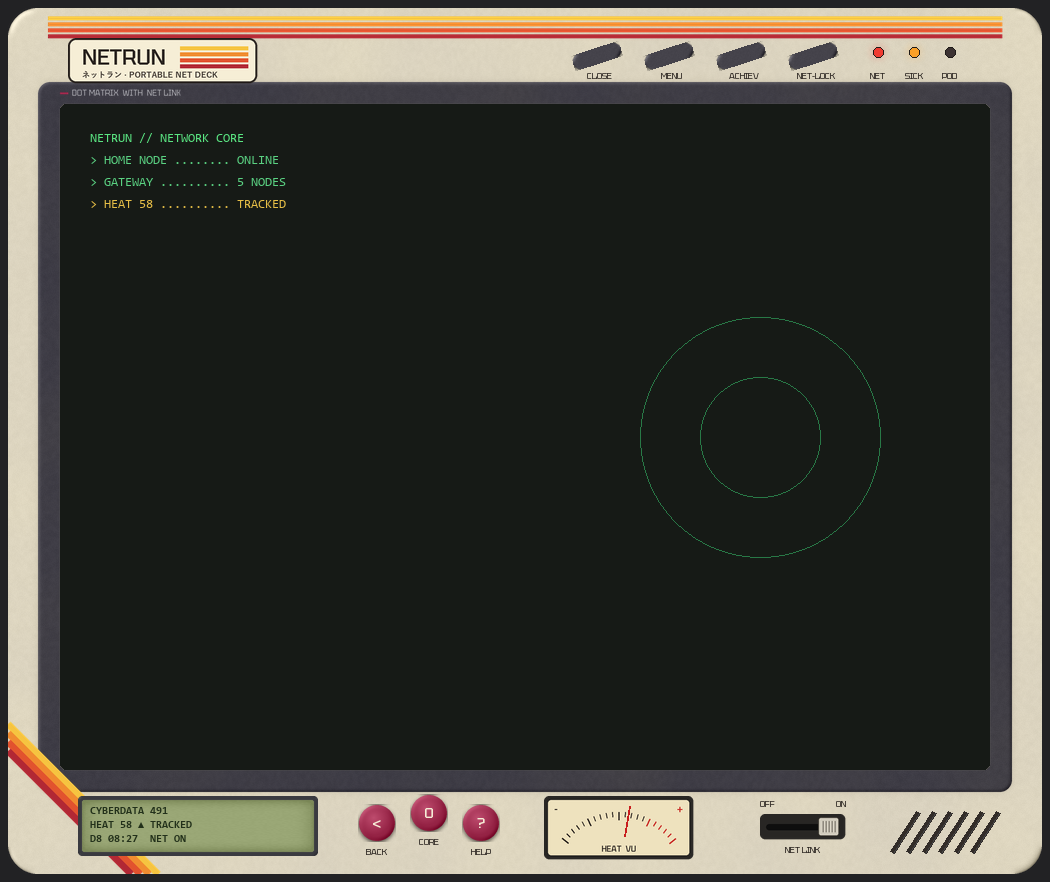
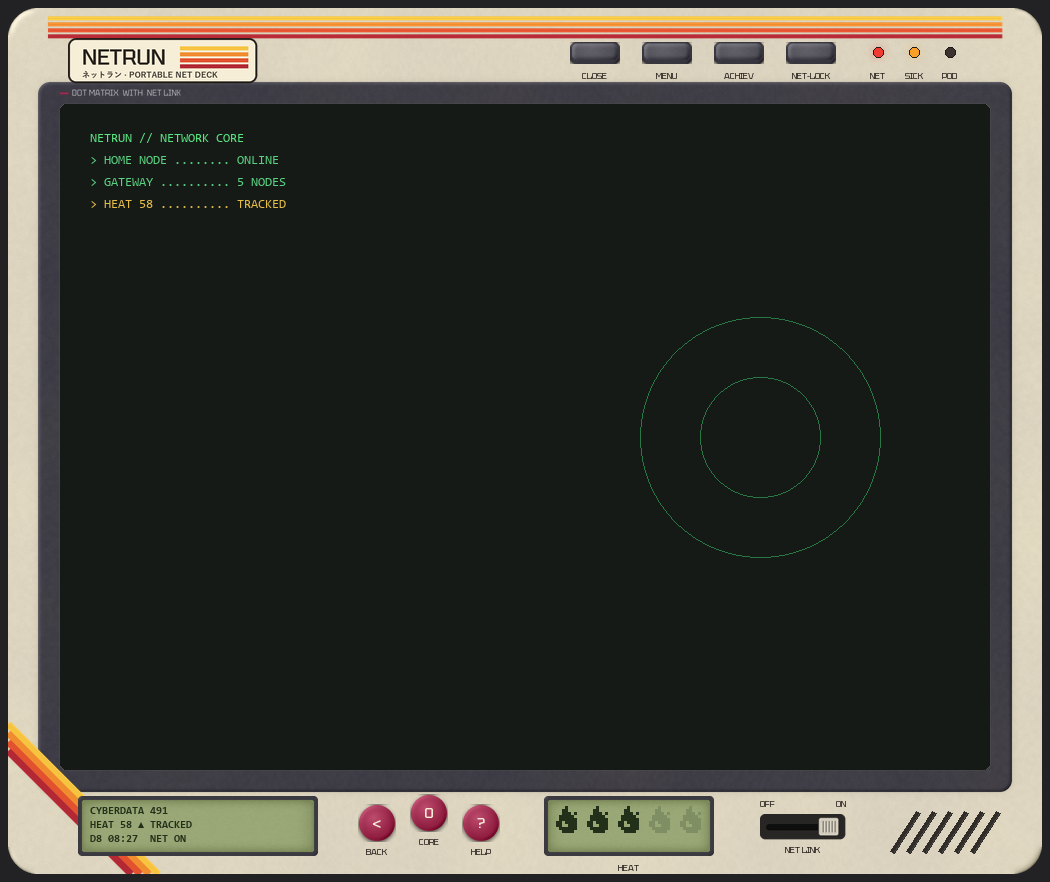
Retro deck: straight keys, three Heat readout options instead of the VU needle; deck-frame project skill

Changed region(s): [[0.5181, 0.8878, 0.701, 1.0], [0.6095, 0.0306, 0.7924, 0.0918], [0.5486, 0.0306, 0.579, 0.0918]]

diff --git a/tools/gen_deck_retro.py b/tools/gen_deck_retro.py
@@ -155,9 +155,15 @@ def make_round_key(color, n=38):
     return img
 
 
-def make_pill(color, w=50, h=16):
-    m = A.mask((w, h), lambda d, s: d.rounded_rectangle([0, 0, w * s - 1, h * s - 1], h / 2 * s, fill=255))
-    rgb = np.array(color, np.float32) + (A.shade(m, 1.5) * 50)[..., None] + A.grain(w, h, 1011, 2)[..., None]
+def make_pill(color, w=50, h=22):
+    """A straight rubber key with a domed cap (Maxim, 2026-10-15: the slanted pills looked unnatural)."""
+    m = A.mask((w, h), lambda d, s: d.rounded_rectangle([0, 0, w * s - 1, h * s - 1], 6 * s, fill=255))
+    cap = A.mask((w, h), lambda d, s: d.rounded_rectangle([2 * s, 1.5 * s, (w - 2) * s - 1, (h - 4) * s - 1], 5 * s, fill=255))
+    yy, xx = np.mgrid[0:h, 0:w].astype(np.float32)
+    rgb = np.array(color, np.float32) - 14 + (A.shade(m, 1.5) * 30)[..., None] + A.grain(w, h, 1011, 2)[..., None]
+    face = np.array(color, np.float32) + 10 + (A.shade(cap, 2.0) * 50)[..., None] + A.grain(w, h, 1012, 2)[..., None]
+    face += (np.clip(1 - np.hypot(xx - w * 0.4, yy - h * 0.3) / (w * 0.5), 0, 1) * 18)[..., None]
+    rgb = rgb * (1 - cap[..., None]) + face * cap[..., None]
     img = A.to_img(np.zeros_like(rgb), np.roll(A.blur(m, 1.5), 2, 0) * 0.6)
     img.alpha_composite(A.to_img(rgb, m))
     return img
@@ -227,7 +233,64 @@ def mono(size, bold=True):
         return A.font(size)
 
 
-def mock(v, out_path, screen=(930, 666), heat=58, online=True):
+SEG = {"0": "abcdef", "1": "bc", "2": "abged", "3": "abgcd", "4": "fgbc", "5": "afgcd", "6": "afgedc", "7": "abc", "8": "abcdefg", "9": "abcdfg"}
+
+
+def seg_digit(d, x, y, w, h, ch, on, off):
+    """A 7-segment digit, segments drawn as bars (the game draws them the same way)."""
+    t = max(2, w // 5)
+    bars = {"a": (x + t, y, x + w - t, y + t), "g": (x + t, y + h / 2 - t / 2, x + w - t, y + h / 2 + t / 2), "d": (x + t, y + h - t, x + w - t, y + h),
+            "f": (x, y + t, x + t, y + h / 2 - t / 2), "b": (x + w - t, y + t, x + w, y + h / 2 - t / 2),
+            "e": (x, y + h / 2 + t / 2, x + t, y + h - t), "c": (x + w - t, y + h / 2 + t / 2, x + w, y + h - t)}
+    for k, r in bars.items():
+        d.rectangle(r, fill=on if k in SEG[ch] else off)
+
+
+def draw_heat(img, style, x, y, heat, ink):
+    """Three takes on the Heat readout for the retro deck (Maxim, 2026-10-15: the VU needle felt like a car dashboard)."""
+    d = ImageDraw.Draw(img)
+    lab = A.font(9, False)
+    level = min(4, int(heat // 20))
+    if style == "pixel":
+        # On a second green LCD: five pixel flames, lit up to the Heat level, like the lives in a handheld game.
+        A.over(img, A.nine_slice(make_lcd(), (170, 60), 8, 8, 8, 8), (x, y))
+        flame = ["...#....", "..##....", "..###.#.", ".#####..", ".######.", "##.####.", "##..###.", ".######.", "..####.."]
+        for i in range(5):
+            on = i <= level
+            for r, row in enumerate(flame):
+                for c, chv in enumerate(row):
+                    if chv == "#":
+                        px, py = x + 12 + i * 31 + c * 3, y + 10 + r * 3
+                        d.rectangle([px, py, px + 2, py + 2], fill=LCD_INK if on else (128, 142, 100))
+        d.text((x + 85, y + 72), "HEAT", font=lab, fill=ink, anchor="mm")
+    elif style == "seg":
+        # A red LED counter, the Heat in three digits and the level as a word, like an old clock radio.
+        d.rounded_rectangle([x, y, x + 170, y + 60], 5, fill=(40, 38, 36))
+        d.rounded_rectangle([x + 5, y + 5, x + 165, y + 55], 3, fill=(36, 6, 8))
+        on, off = (255, 60, 40), (64, 14, 14)
+        for i, ch in enumerate(f"{int(heat):03d}"):
+            seg_digit(d, x + 14 + i * 30, y + 12, 22, 36, ch, on, off)
+        A.glow(img, (x + 14, y + 12, x + 96, y + 48), on, 0.25, 6)
+        d = ImageDraw.Draw(img)
+        for i, t in enumerate(("SHADOW", "NOTICED", "TRACKED", "TARGET", "RED")):
+            d.text((x + 108, y + 9 + i * 9.5), t, font=A.font(7, False), fill=on if i == level else (110, 40, 36))
+        d.text((x + 85, y + 72), "HEAT", font=lab, fill=ink, anchor="mm")
+    else:
+        # A tape counter: three white-on-black drums behind a little window, rolling with the Heat.
+        d.rounded_rectangle([x + 20, y + 6, x + 150, y + 54], 6, fill=(180, 176, 166), outline=(60, 56, 50))
+        d.rounded_rectangle([x + 30, y + 14, x + 112, y + 46], 3, fill=(20, 20, 20))
+        for i, ch in enumerate(f"{int(heat):03d}"):
+            cx = x + 32 + i * 27
+            d.rectangle([cx, y + 15, cx + 23, y + 45], fill=(30, 30, 30) if i < 2 else (34, 30, 30))
+            d.text((cx + 12, y + 30), ch, font=A.font(22), fill=(240, 236, 226), anchor="mm")
+            d.line([cx, y + 16, cx + 23, y + 16], fill=(70, 70, 70))
+            d.line([cx, y + 44, cx + 23, y + 44], fill=(10, 10, 10))
+        d.ellipse([x + 122, y + 22, x + 138, y + 38], fill=(60, 56, 50), outline=(30, 28, 26))
+        d.text((x + 130, y + 30), "R", font=A.font(9), fill=(220, 214, 200), anchor="mm")
+        d.text((x + 85, y + 72), "HEAT COUNTER", font=lab, fill=ink, anchor="mm")
+
+
+def mock(v, out_path, screen=(930, 666), heat=58, online=True, heat_style="pixel"):
     import math
     T = V[v]["T"]
     p = V[v]
@@ -259,8 +322,8 @@ def mock(v, out_path, screen=(930, 666), heat=58, online=True):
     for i, name in enumerate(("CLOSE", "MENU", "ACHIEV", "NET-LOCK")):
         x = kx + i * 72
         pill = load("Pill")
-        A.over(img, pill.rotate(18, expand=True, resample=Image.BICUBIC), (x, top_y + 6))
-        d.text((x + 30, top_y + 42), name, font=lab, fill=ink, anchor="mm")
+        A.over(img, pill, (x, top_y + 8))
+        d.text((x + 25, top_y + 42), name, font=lab, fill=ink, anchor="mm")
     lx = bx1 - IN_R - 112
     for i, (c, name) in enumerate((((240, 60, 50), "NET"), ((250, 160, 40), "SICK"), ((60, 50, 50), "POD"))):
         cx, cy = lx + i * 36, top_y + 18
@@ -282,11 +345,7 @@ def mock(v, out_path, screen=(930, 666), heat=58, online=True):
         d.text((x + 19, y + 19), g, font=A.font(14), fill=(246, 236, 214) if v != "C" else (60, 40, 30), anchor="mm")
         d.text((x + 19, y + 48), name, font=lab, fill=ink, anchor="mm")
     vx = rx + 3 * 52 + 30
-    vu = load("VU")
-    A.over(img, vu, (vx, yb + 26))
-    cx, cy = vx + vu.width / 2, yb + 26 + vu.height + 26
-    a = math.radians(-50 + 100 * heat / 100)
-    d.line([cx + 50 * math.sin(a), cy - 50 * math.cos(a), cx + 80 * math.sin(a), cy - 80 * math.cos(a)], fill=(200, 30, 30), width=2)
+    draw_heat(img, heat_style, vx, yb + 26, heat, ink)
     sx = bx1 - IN_R - 230
     A.over(img, load("Slide"), (sx, yb + 44))
     A.over(img, load("Grip"), (sx + (58 if online else 6), yb + 47))
@@ -300,4 +359,5 @@ if __name__ == "__main__":
     v = sys.argv[sys.argv.index("--variant") + 1] if "--variant" in sys.argv else "A"
     build(v)
     if "--mock" in sys.argv:
-        mock(v, sys.argv[sys.argv.index("--mock") + 1])
+        style = sys.argv[sys.argv.index("--heat") + 1] if "--heat" in sys.argv else "pixel"
+        mock(v, sys.argv[sys.argv.index("--mock") + 1], heat_style=style)

diff --git a/.claude/skills/deck-frame/SKILL.md b/.claude/skills/deck-frame/SKILL.md
@@ -1,0 +1,38 @@
+---
+name: deck-frame
+description: Use when making or fixing a terminal deck frame theme (casing around the Netrun terminal) in Hacking Expansion: Netrun - procedural textures in tools/gen_deck_*.py, mockups, the Deck*.cs drawing code, theme registration, unlocks. Pipeline, helpers and a checklist of bugs Maxim already caught.
+---
+
+# Deck frame themes (Netrun)
+
+A frame = a Python generator that writes textures + a C# partial of `NetrunUI` that draws the casing and its controls around the screen rect. Existing ones to copy from: Nomad (`DeckNomad.cs`, `gen_deck_nomad.py`), Street, Kurenai, Iron. Retro is in progress (`gen_deck_retro.py`, variants in `V`).
+
+## Pipeline
+1. References from Maxim (`G:/Modding/RimWorld/Hacking Expansion Netrun/<Theme>`). Describe 2-3 variants in words first if the brief is vague.
+2. Generator `tools/gen_deck_<theme>.py`: `build()` writes textures to `Textures/UI/Netrun/Frame/<Art>/`, `--mock OUT` renders a full mockup into `docs/mockups/NN-<theme>.png`. Note: in iron/kurenai `--mock` does NOT rebuild textures; run without args first.
+3. Show mockups (SendUserFile), wait for Maxim's pick. Variants: keep a `V`/`VARIANTS` dict and `--variant X`; delete unchosen variant folders only after he agrees.
+4. C#: `Source/Terminal/Deck<Theme>.cs` with constants `Out L/T/R/B` (casing outside the box), `In L/T/R/B` (box to screen), `Slice`, `Extra`; a `<Theme>Tex` static class (`[StaticConstructorOnStartup]`, ContentFinder paths); `<Theme>Bezel(outer, heat, level, online, anim, time, onKey, menu)` returning the screen rect; casing / top / bottom functions.
+5. Register: `DeckStyle` enum and the theme entry in `DeckThemes.cs` (keep the old `Id`, set `Art` to the folder; `UnlockKey`/`UnlockCount`), `NetrunDeck.DeckExtra` + `DeckBezel` switch, `Preview.png` in the art folder for the settings card.
+6. Texts: `NR_DeckTheme_<Id>` and `_Desc` in English and Russian `Keyed/Terminal.xml`.
+7. Build, `python tools/check_keys.py`, CHANGELOG + STATUS, commit, push to dev.
+
+## Helpers
+- `tools/deck_art.py` (as `A`): `mask`, `fbm` (about ±0.3, centred), `grain`, `shade` (top-left light), `inner_edge`, `blur`, `streaks`, `to_img`, `over`, `save(img, folder, name)`, `nine_slice`, `rivet`, `text_layer`, `spray`, `glow`, `font` (Tektur/bahnschrift; no exotic glyphs like ⏻ - they render as boxes), `SS = 3`.
+- `tools/deck_stickers.py` (as `S`): `Big` canvas (`rect`, `poly`, `ellipse`, `line`, `text`, `done`), `jfont` (Japanese), `barcode`, `graffiti`.
+- C# shared in `NetrunUI`: `NineSlice` (snaps to device pixels via `GUI.matrix`, overlaps 1 px), `Sprite`, `Stencil`, `GlyphText`, `GlyphTex`, `Glow`, `Tip`, `Cached`, `DrawLcd`/`LcdLines`, `TexturedKey`, state `_pressed`, `_rf`, `_tuner`; colours `Ok`, `Bad`, `DeckOrange`, `PodGreen`, `LcdGreen`, `HeatSegments`.
+- Mirroring a sprite: `GUI.DrawTextureWithTexCoords(r, tex, new Rect(1, 0, -1, 1))`.
+
+## Checklist (bugs Maxim already caught)
+- Python default args bind at definition time: palette params default to `None` and resolve inside, or variants all get the same colour.
+- 9-slice seams: always `NineSlice`, never raw stretched DrawTexture for sliced art.
+- Nothing past the casing or the window edge: antennas, handles, labels, warning text. Check at the smallest window.
+- Controls sit inside the casing, clear of its lip, hinges, bumpers and handle mounts; keys never cut the frame edge.
+- Labels under keys never touch the screen bezel; leave 6-8 px. Raise `In T`/`In B` instead of squeezing.
+- Panels never overlap each other or bumpers; vents/plates never sit on screws (skip occupied zones when placing screws).
+- Every interactive part has a tooltip and a hover state; hover-sound keys must be unique per rect (see the `Key(hit)` hash fix in NetrunUI).
+- Keys need volume: a skirt plus a domed cap with a highlight, not a flat rounded rect. No grey collars around coloured buttons.
+- Mechanics must make sense: a guard cover hides a push button, not a lever; slanted keys looked unnatural.
+- Colours: Maxim prefers muted, not bright white; light themes are greyed down.
+- Generated textures: body 1400x900 max; small parts at real pixel size (no runtime scaling).
+- Theme Ids are saved in settings: never rename an Id, use `Art` for the folder.
+- The game locks the DLL while running (MSB3026): rebuild after Maxim closes it.
